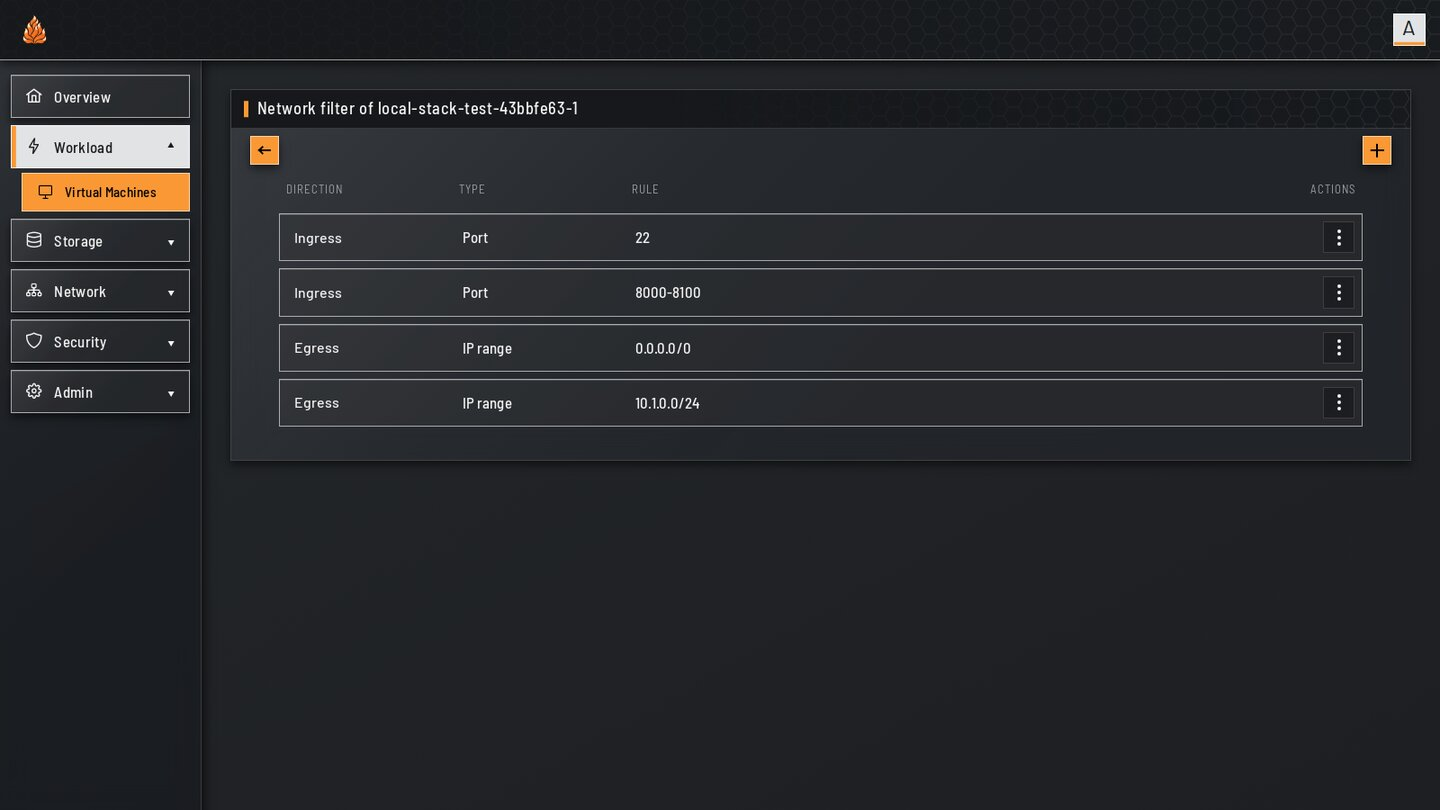
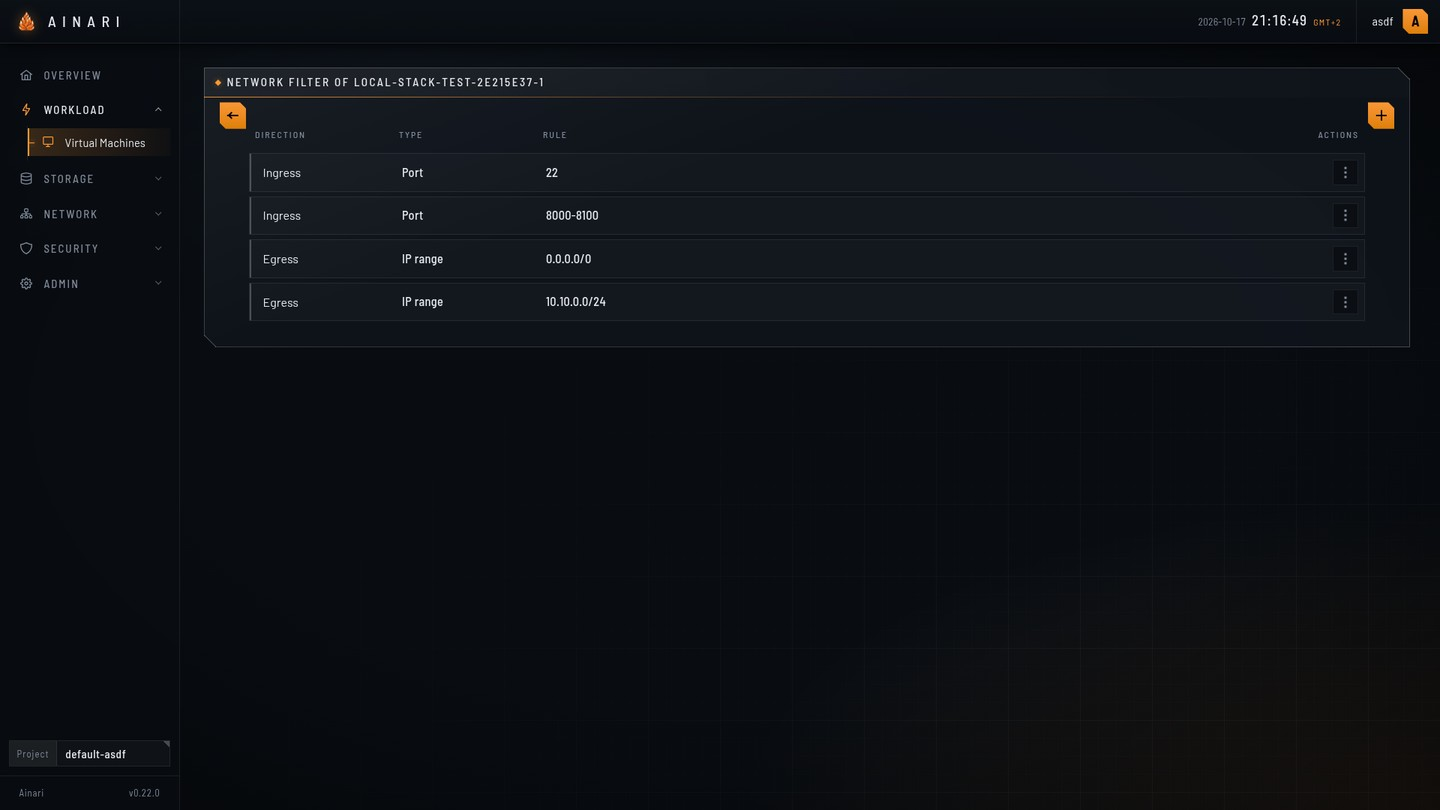
WIP

diff --git a/docs/user/dashboard/dashboard.md b/docs/user/dashboard/dashboard.md
@@ -14,7 +14,8 @@ project-ID, or a project, to which you are not assigned, is rejected with an `Un
 
 ## Switch project
 
-**Switch Project** in the menu behind the avatar in the upper right corner lists all projects, to
+The current project is shown in the lower left corner of the navigation. A click on it, or
+**Switch Project** in the menu behind the avatar in the upper right corner, lists all projects, to
 which you are assigned, together with your role in each of them. Select a project in the table and
 accept, to continue within this project without a new login. All pages show the resources of the
 selected project afterwards.
@@ -27,7 +28,9 @@ the project, and a list of the virtual machines.
 ![Overview](img/overview.jpg)
 
 On the left side is the navigation to all other pages. The entries under **Admin** are only shown
-for admins.
+for admins. Below the navigation are the current project and the version of Ainari. The bar at the
+top shows the local time and your user, whose menu behind the avatar provides **Switch Project**,
+**Change Passphrase** and **Logout**.
 
 ## Workflow: create a virtual machine
 
